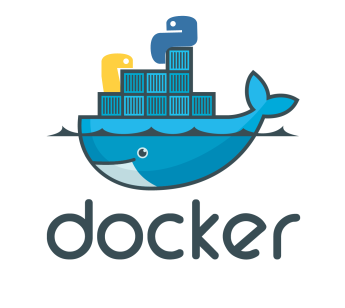
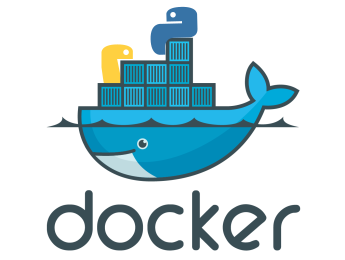
Change images and css

Changed region(s): [[0.1159, 0.2154, 0.8696, 0.9846], [0.2609, 0.0, 0.6377, 0.3385]]

diff --git a/index.html b/index.html
@@ -15,7 +15,8 @@
 		<meta name="viewport" content="width=device-width, initial-scale=1.0, maximum-scale=1.0, user-scalable=no, minimal-ui">
 
 		<link rel="stylesheet" href="css/reveal.css">
-		<link rel="stylesheet" href="css/theme/black.css" id="theme">
+		<!--- <link rel="stylesheet" href="css/theme/black.css" id="theme"> -->
+		<link rel="stylesheet" href="css/theme/league.css" id="theme">
 
 		<link rel="stylesheet" href="css/custom.css">
 

diff --git a/presentation.md b/presentation.md
@@ -1,4 +1,4 @@
-![Docker carries Python meetup!](img/docker_python.png)
+![Docker logo](https://raw.githubusercontent.com/theodorosploumis/docker-presentation/gh-pages/img/docker_logo.png)
 
 ## Docker for Developers - Introduction
 
@@ -194,7 +194,7 @@ docker run -i -t ubuntu /bin/bash
  - Allocates a filesystem and mounts a read-write <abbr title="A set of read-only files to provision the system. Think of a layer as a read only snapshot of the filesystem.">layer</abbr>
  - Allocates a network / bridge interface
  - Sets up an <abbr title="An Internet Protocol address (IP address) is a numerical label assigned to each device (e.g., computer, printer) participating in a computer network that uses the Internet Protocol for communication.">IP address</abbr>
- - Executes a process that you specify (<code>/bin/bash</code>)
+ - Executes a process that you specify (```/bin/bash```)
  - Captures and provides application output
 
 ---
@@ -480,9 +480,9 @@ There are known best practices ([1](https://docs.docker.com/engine/userguide/eng
 
 ---
 
-![Docker logo](img/docker_logo.png)
-
 ### Questions?
+
+![Pythons over Docker!](https://raw.githubusercontent.com/theodorosploumis/docker-presentation/gh-pages/img/docker_python.png)
 
 > Next: Docker in production, Scaling, Private registries, PaaS.
 
